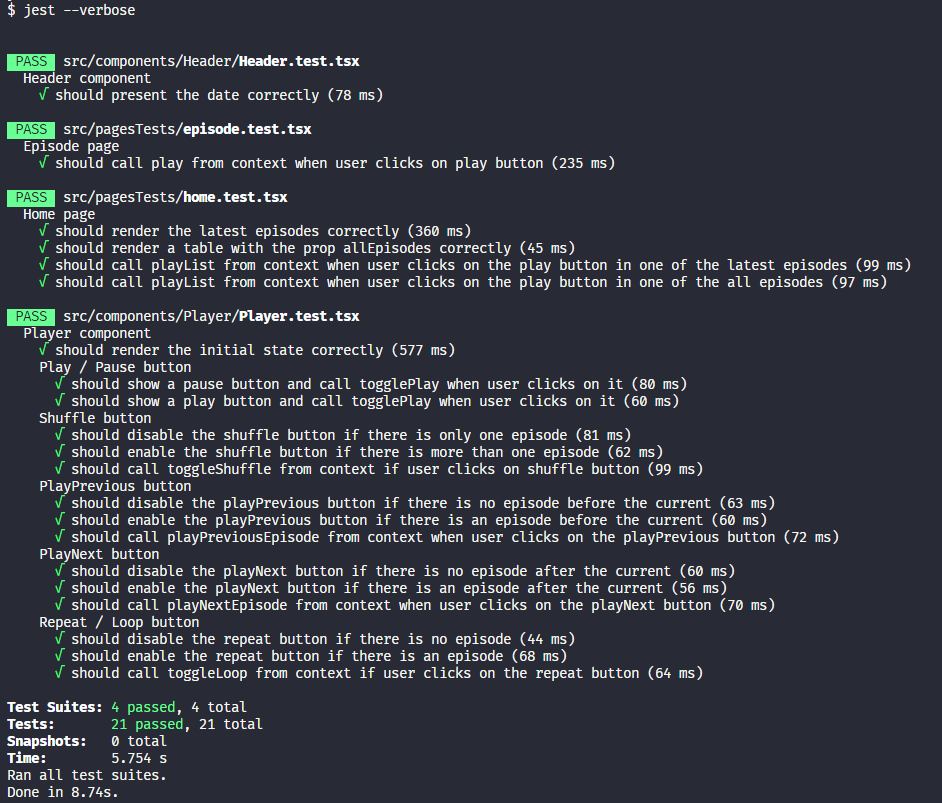
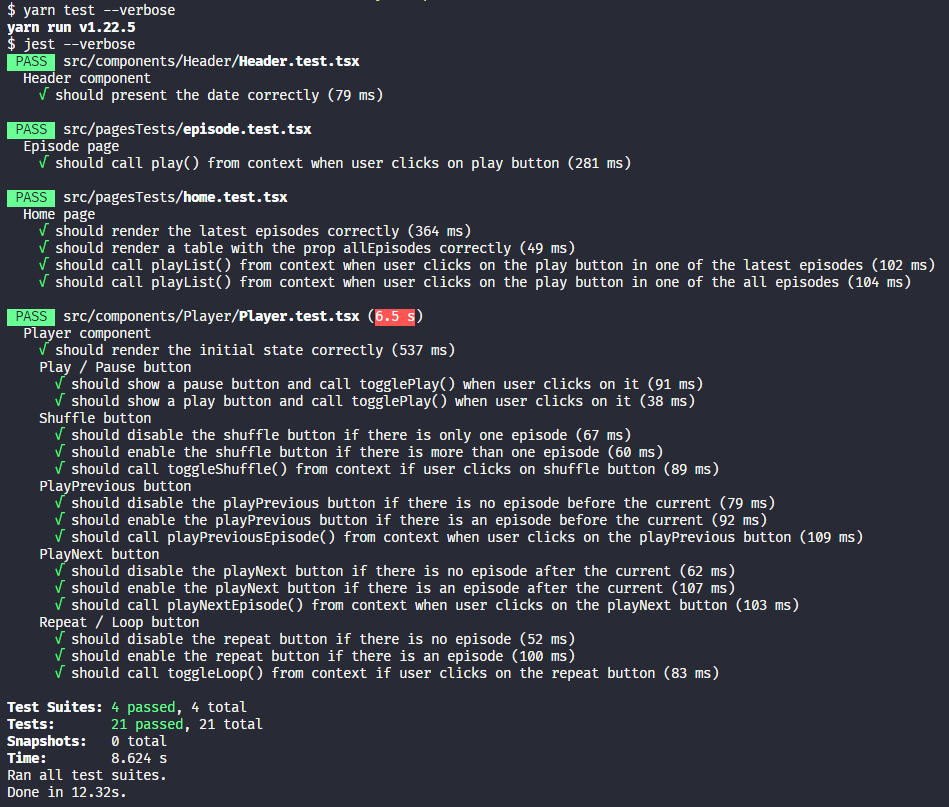
refactor: change some tests name

Changed region(s): [[0.0, 0.1557, 0.9851, 0.9963], [0.0, 0.0, 0.4002, 0.1245]]

diff --git a/src/components/Player/Player.test.tsx b/src/components/Player/Player.test.tsx
@@ -71,7 +71,7 @@ describe('Player component', () => {
   });
 
   describe('Play / Pause button', () => {
-    it('should show a pause button and call togglePlay when user clicks on it', () => {
+    it('should show a pause button and call togglePlay() when user clicks on it', () => {
       const mockContextValue: PlayerContextData = {
         ...baseMockContext,
         episodeList: [
@@ -95,7 +95,7 @@ describe('Player component', () => {
       expect(HTMLAudioElement.prototype.play).toHaveBeenCalled();
     });
 
-    it('should show a play button and call togglePlay when user clicks on it', () => {
+    it('should show a play button and call togglePlay() when user clicks on it', () => {
       const mockContextValue: PlayerContextData = {
         ...baseMockContext,
         episodeList: [
@@ -163,7 +163,7 @@ describe('Player component', () => {
       expect(screen.getByRole('button', { name: /embaralhar/i })).toBeEnabled();
     });
 
-    it('should call toggleShuffle from context if user clicks on shuffle button', () => {
+    it('should call toggleShuffle() from context if user clicks on shuffle button', () => {
       const mockContextValue: PlayerContextData = {
         ...baseMockContext,
         episodeList: [1, 2].map(i =>
@@ -231,7 +231,7 @@ describe('Player component', () => {
       expect(screen.getByRole('button', { name: /tocar anterior/i })).toBeEnabled();
     });
 
-    it('should call playPreviousEpisode from context when user clicks on the playPrevious button', () => {
+    it('should call playPreviousEpisode() from context when user clicks on the playPrevious button', () => {
       const mockContextValue: PlayerContextData = {
         ...baseMockContext,
         episodeList: [
@@ -300,7 +300,7 @@ describe('Player component', () => {
       expect(screen.getByRole('button', { name: /tocar próxima/i })).toBeEnabled();
     });
 
-    it('should call playNextEpisode from context when user clicks on the playNext button', () => {
+    it('should call playNextEpisode() from context when user clicks on the playNext button', () => {
       const mockContextValue: PlayerContextData = {
         ...baseMockContext,
         episodeList: [
@@ -361,7 +361,7 @@ describe('Player component', () => {
       expect(screen.getByRole('button', { name: /repetir/i })).toBeEnabled();
     });
 
-    it('should call toggleLoop from context if user clicks on the repeat button', () => {
+    it('should call toggleLoop() from context if user clicks on the repeat button', () => {
       const mockContextValue: PlayerContextData = {
         ...baseMockContext,
         episodeList: [

diff --git a/src/pagesTests/home.test.tsx b/src/pagesTests/home.test.tsx
@@ -102,7 +102,7 @@ describe('Home page', () => {
     expect(allEpisodesTableElement.querySelector('tbody').children).toHaveLength(4);
   });
 
-  it('should call playList from context when user clicks on the play button in one of the latest episodes', () => {
+  it('should call playList() from context when user clicks on the play button in one of the latest episodes', () => {
     const latestEpisodes = [
       createEpisode({
         id: 'podcast-1',
@@ -127,7 +127,7 @@ describe('Home page', () => {
     expect(mockContextValue.playList).toHaveBeenCalledWith(latestEpisodes, 0);
   });
 
-  it('should call playList from context when user clicks on the play button in one of the all episodes', () => {
+  it('should call playList() from context when user clicks on the play button in one of the all episodes', () => {
     const allEpisodes = [3, 4, 5, 6].map(i =>
       createEpisode({
         id: `podcast-${i}`,

diff --git a/src/pagesTests/episode.test.tsx b/src/pagesTests/episode.test.tsx
@@ -42,7 +42,7 @@ const makeSut = (episode: Episode) => {
 };
 
 describe('Episode page', () => {
-  it('should call play from context when user clicks on play button', () => {
+  it('should call play() from context when user clicks on play button', () => {
     const episode: Episode = {
       id: 'podcast 1',
       title: 'Podcast 1',
